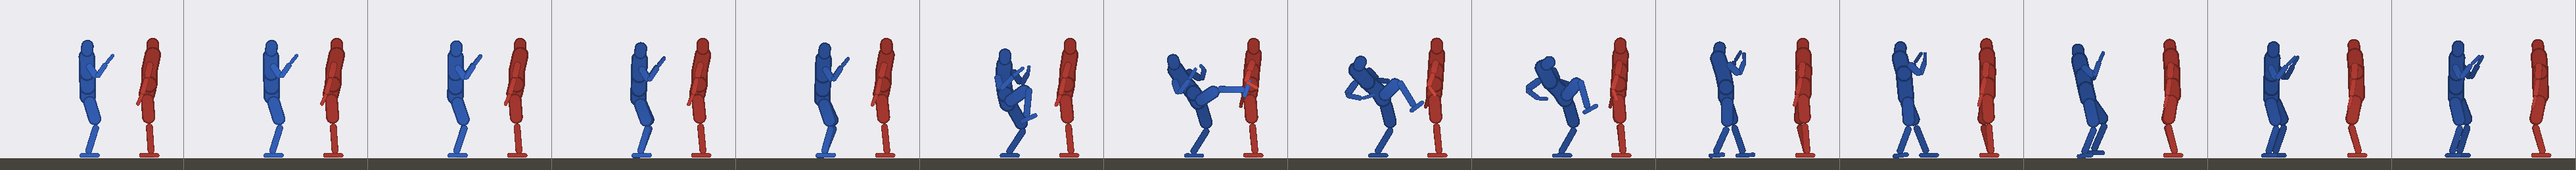
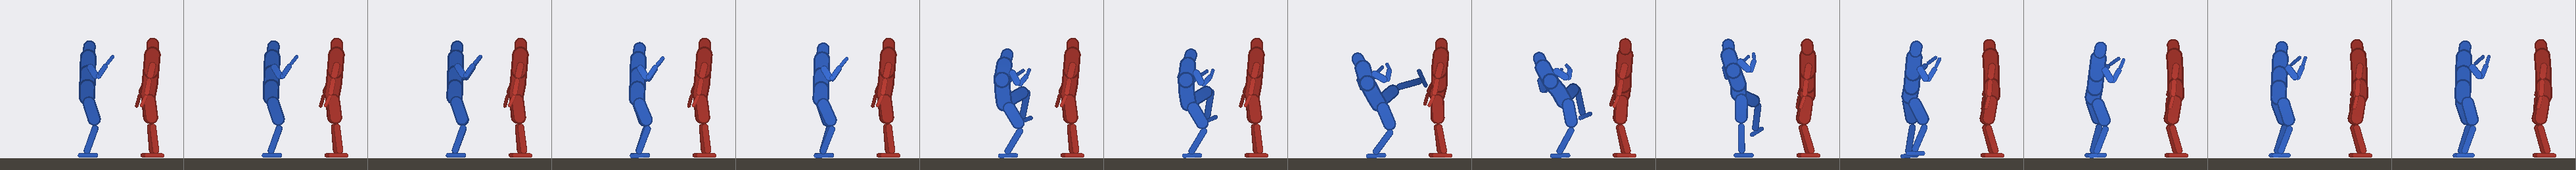
The base, a mark: the kick's cell reads where a push kick meets a body
A person's push kick goes to the belly and hips; the front kick, aimed at the middle mark, struck
the lower trunk in 6 of its 14 research trials, three of them for 0.43 to 0.47 of a life, and the
rules take a blow there as from any of the trunk (life x1 on a man). The body already names its
lower trunk (`marks.base`); now the base is a region mark (REGION_MARKS, action-aim) and a Strike
drill mark, read on a rung of its own by foot (`base`, and its twin), and the kick's cell reads it
beside the middle. The kick Option offers the middle, then the base: a Mind without orders takes
the first its foe has, so aims as it did; the drill orders the base on its rung.

The look counts each rung apart. The front kick's, aimed at the base's centre: landed 2 of 14,
light, down after 4 (against 1 at the middle); its verdict stays no, and the plan records why and
what is next (the leg's line aimed above where the foot meets), and that the front kick's mark is
declared with the variation once the Warrior holds it.

Checks: npm run check; npm test (140 pass); npm run build; the fingerprint (--compare: no pose
moved); the Arena headless, its regions offering base, no page error; the documents test;
git diff --check.

Claude-Session: https://claude.ai/code/session_01XzLfoQpGt4KyYLbzgx9kQw

diff --git a/src/evaluation/strike/cases.ts b/src/evaluation/strike/cases.ts
@@ -193,6 +193,12 @@ const LAID = deepFreeze({ segment: "middleTrunk", speed: .5 });
 const MIDDLE = deepFreeze({ ...STILL, models: ["man"] as BodyModel[], marks: ["middle"] as Mark[], feet: [...SIDES] as Hand[] });
 
 /**
+ * **The base, by foot**: the middle rung's trials at a standing Warrior's base mark, its lower
+ * trunk, thrown with each foot: where a person's push kick meets a body, the belly and hips.
+ */
+const BASE = deepFreeze({ ...MIDDLE, marks: ["base"] as Mark[], hands: [] as Hand[] });
+
+/**
  * Stomping: the opponent rungs' trials thrown with each foot (`feet`), no hand, at the middle mark
  * of a target lying on its back: each of the game's foes (`FOES`) under the bare mind
  * with no network, which pulls no muscle, laid down (`laid`) and lying still before the striker,
@@ -622,7 +628,7 @@ export const createStrikeCases = perContext((context: GameContext) => {
     "sparring-feet": stillCases(SPARRING_FEET, sampledConditions(SPARRING_FEET)),
     "sparring-bite": stillCases(SPARRING_BITE, sampledConditions(SPARRING_BITE)),
     "swing-motion": stillCases(SWING_MOTION),
-    moving: stillCases(MOVING), ...twinned("middle", MIDDLE), ...twinned("walk", atEveryFoe(WALK)), ...twinned("bonk", atEveryFoe(BONK)),
+    moving: stillCases(MOVING), ...twinned("middle", MIDDLE), ...twinned("base", BASE), ...twinned("walk", atEveryFoe(WALK)), ...twinned("bonk", atEveryFoe(BONK)),
     stepping: stillCases(STEPPING), guarding: stillCases(GUARDING), punching: stillCases(PUNCHING), fight: fightCases(FIGHT, fightGrid(FIGHT)), fights: fightCases(FIGHTS, fightGrid(FIGHTS)),
     "fights-twin": fightCases(FIGHTS_TWIN, drawnFights(FIGHTS_TWIN)), "fights-drawn": fightCases(FIGHTS_DRAWN, drawnFights(FIGHTS_DRAWN)),
     "fights-judge": fightCases(FIGHTS_JUDGE, drawnFights(FIGHTS_JUDGE)),

diff --git a/src/minds/option/kinds.ts b/src/minds/option/kinds.ts
@@ -284,11 +284,15 @@ export const SWORD_THRUST_OPTION = strikeKind("sword-thrust", "Sword thrust", { 
  */
 export const STOMP_OPTION = strikeKind("stomp", "Stomp", { limbs: "either-foot", regions: MIDDLE, aim: CENTRE });
 
+/** The trunk's middle, then its base: a kick's regions, the first a body has taken unless orders name another (`orderedTarget`). */
+const MIDDLE_THEN_BASE: readonly Region[] = deepFreeze([{ kind: "mark", mark: "middle" }, { kind: "mark", mark: "base" }]);
+
 /**
  * **The kick** (`kick`, `assets/skills/strikes/kick/kick.json`): with either foot at the trunk's
- * middle, aimed at its centre: a drive ahead at a body standing.
+ * middle, or its base, the belly and hips, where orders name it, aimed at its centre: a drive ahead
+ * at a body standing.
  */
-export const KICK_OPTION = strikeKind("kick", "Kick", { limbs: "either-foot", regions: MIDDLE, aim: CENTRE });
+export const KICK_OPTION = strikeKind("kick", "Kick", { limbs: "either-foot", regions: MIDDLE_THEN_BASE, aim: CENTRE });
 
 /** **The bite** (`bite`), with the jaw, at any part of a foe, aimed at the first surface its teeth meet as the jaw closes (`first-exposed`). */
 export const BITE_OPTION = strikeKind("bite", "Bite", { limbs: "jaw", regions: [{ kind: "mark", mark: "any" }], aim: { kind: "first-exposed" } });

diff --git a/src/evaluation/table/cells.ts b/src/evaluation/table/cells.ts
@@ -140,7 +140,7 @@ export const createTableCells = perContext((context: GameContext) => {
       value: `${BLOW}; the fist's speed over its last 0.1 m beside it` },
     { name: "stomp", has: struck("stomp"), readings: (body, loadout) => [strikeRung("stomping", "foot", "stomp", body, loadout)],
       value: `${BLOW}; the foot's speed into the contact beside it` },
-    { name: "kick", has: struck("kick"), readings: (body, loadout) => [strikeRung("middle", "foot", "kick", body, loadout)],
+    { name: "kick", has: struck("kick"), readings: (body, loadout) => [strikeRung("middle", "foot", "kick", body, loadout), strikeRung("base", "foot", "kick", body, loadout)],
       value: `${BLOW}; the foot's speed over its last 0.1 m beside it` },
     { name: "bite", has: struck("bite"), readings: (body, loadout) => [strikeRung("biting", "teeth", "bite", body, loadout)],
       value: `${BLOW}; the teeth's closing speed at the contact beside it` },

diff --git a/src/skills/framework/action.ts b/src/skills/framework/action.ts
@@ -7,7 +7,7 @@ import type { Vec3 } from "../../core/quantity.ts";
 import type { Around, LegsGoal, Skill } from "./skill.ts";
 
 /** The marks of a sensed body a region may name. */
-export const REGION_MARKS = Object.freeze(["high", "middle", "legs", "any"] as const);
+export const REGION_MARKS = Object.freeze(["high", "middle", "base", "legs", "any"] as const);
 export type RegionMark = typeof REGION_MARKS[number];
 /** Whether `value` is a region's mark (`REGION_MARKS`). */
 export const isRegionMark = (value: unknown): value is RegionMark => (REGION_MARKS as readonly unknown[]).includes(value);

diff --git a/src/skills/framework/action-aim.ts b/src/skills/framework/action-aim.ts
@@ -37,6 +37,7 @@ function expanded(spec: BodySpec, region: Region): readonly string[] {
       switch (region.mark) {
         case "high": named = [spec.marks.high]; break;
         case "middle": named = spec.marks.middle; break;
+        case "base": named = [spec.marks.base]; break;
         case "legs": named = spec.marks.legs; break;
         case "any": return spec.segments.map(s => s.name);
         default: { const never: never = region.mark; throw new Error(`unknown mark ${never}`); }

diff --git a/src/evaluation/strike/read.ts b/src/evaluation/strike/read.ts
@@ -33,7 +33,7 @@ import { type Side, SIDES } from "../../core/bodies/bilateral.ts";
 import { swingMotion, type SwingMotion } from "./motion.ts";
 import { swellShapes } from "./swell.ts";
 
-export type Mark = "high" | "middle" | "legs";
+export type Mark = "high" | "middle" | "base" | "legs";
 
 /**
  * A landed blow takes at least this much life, HP: half a solid punch (a hit point is 100 J of blunt

diff --git a/docs/plans/2026-11-25-kicker-falls.md b/docs/plans/2026-11-25-kicker-falls.md
@@ -78,9 +78,21 @@ Mind's knockouts within 60 s come back toward what they were before the kick.
   holds a leg reaching forward short of its path (the knee stopped at 0.7 rad), at 0.03 s it
   straightens (`pathSeconds`); the window 0.7 to 1.0 m put the foe inside the leg's reach and 0.95
   to 1.15 beyond it, 0.8 to 1.0 holds it.
-- **Next, by hand**: the extension driven out level at the mark's height, not up from under the
-  chamber, at the range the leg is straight at; then what it does when offered closer (the
-  Option's range, or a step back first), by look. Reported before any search.
+- **The front kick's mark is the base.** A person's push kick goes to the belly and hips, and the
+  rules take a blow there as from any of the trunk (life ×1 on a man). Aimed at the middle mark,
+  the front kick struck the lower trunk in 6 of 14 (three 0.43 to 0.47 of a life) and the guard in
+  6. So the base (the body's `marks.base`, its lower trunk) is a mark, and the kick's cell reads it
+  beside the middle (the `base` rung); the kick Option offers it after the middle, so a Mind
+  without orders aims as it did. Aimed at the base's centre, the front kick lands 2 of 14 there
+  (light blows) and falls in 4, against 1 aimed at the middle: the leg's line has to be aimed
+  above where the foot meets, which bends under it. A chamber and extension solved to put the foot
+  at the middle mark's height tucked the kicker and laid the trunk back about 45°: reverted.
+- **Next, by hand**: the leg's line aimed above the mark it meets, on the base rung; then what it
+  does when offered closer (the Option's range, or a step back first), by look. Reported before
+  any search.
+- **When the front kick is the one the Warrior holds**: its mark is declared with the variation,
+  as its ends are, and the Option aims at it, one source; so the drive's goal and what the Mind's
+  strike profile measures for it agree with where it lands (the reviewing session, 2026-11-25).
 
 ## After it
 

diff --git a/research/looks/man/kick-front/c162519e7f76/verdict.md b/research/looks/man/kick-front/c162519e7f76/verdict.md
@@ -1,7 +1,7 @@
 # man's kick/front at c162519e7f76
 
 Looks like the motion: yes
-Works some of the time: no (landed 0 of 14 research trials; down after 1, ended standing in 13; guarded 6, elsewhere 6)
+Works some of the time: no (the middle rung: landed 0 of 14, down after 1, guarded 6, elsewhere 6, all on the lower trunk; the base rung: landed 2 of 14, light, down after 4)
 
 What the strips show, against how a person does it: a push kick. The weight goes onto the standing
 leg, the knee comes up into a chamber, the leg extends near straight at the foe's belly as the pelvis
@@ -14,3 +14,8 @@ the mark, the middle trunk from 1.09 m) or its arms. The extension swings the fo
 the chamber, and the foe is near enough that it touches while the knee is still bent (0.5 rad),
 before the foot has risen to the mark. Next by hand: the extension driven out level at the mark's
 height, not up from under it, and the range the leg is straight at.
+
+On the base rung (the lower trunk the mark), aimed at the base's centre: the leg goes out level
+into the foe's hands and hips, lands twice and lightly, and falls in 4, each tipping forward
+through the set-down after touching a hand. Aimed at the middle, the same kick struck the lower
+trunk hard; the leg's line has to be aimed above where the foot meets.
